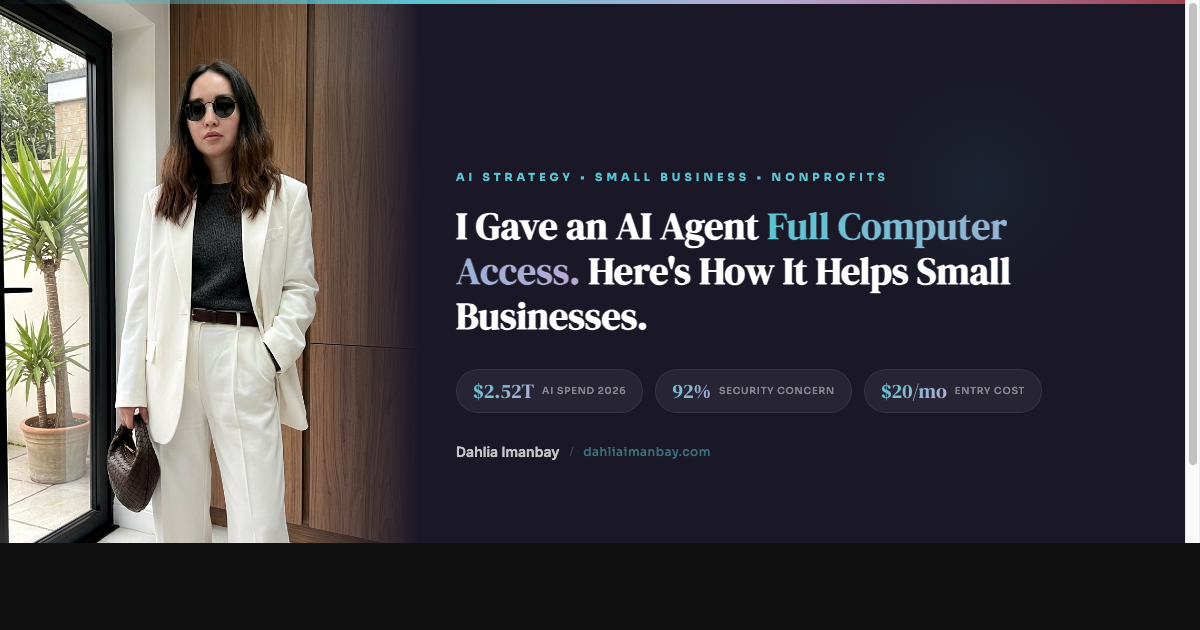
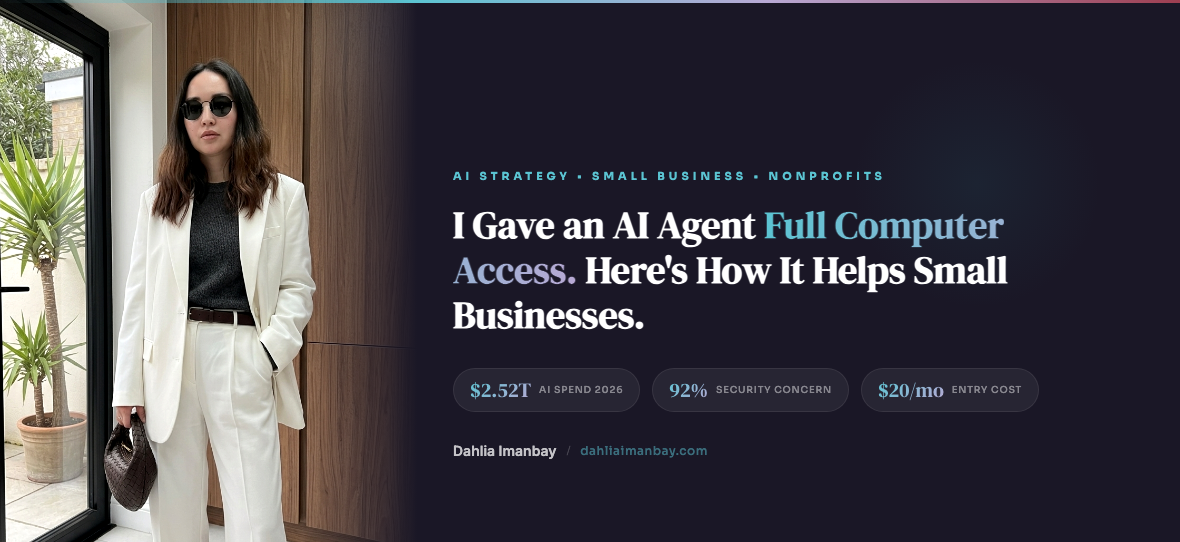
Add Google Analytics (GA4) tracking to all pages
Measurement ID: G-NXLWM0TJK8 added to 5 HTML pages for
monthly traffic and engagement reporting.

diff --git a/index.html b/index.html
@@ -1,6 +1,14 @@
 <!DOCTYPE html>
 <html lang="en">
 <head>
+    <!-- Google Analytics (GA4) -->
+    <script async src="https://www.googletagmanager.com/gtag/js?id=G-NXLWM0TJK8"></script>
+    <script>
+      window.dataLayer = window.dataLayer || [];
+      function gtag(){dataLayer.push(arguments);}
+      gtag('js', new Date());
+      gtag('config', 'G-NXLWM0TJK8');
+    </script>
     <meta charset="UTF-8">
     <meta name="viewport" content="width=device-width, initial-scale=1.0">
     <title>Dahlia Imanbay | AI Strategist, Fractional CMO & Full-Stack Developer</title>

diff --git a/blog/ai-auto-mode-small-business-nonprofits.html b/blog/ai-auto-mode-small-business-nonprofits.html
@@ -1,6 +1,14 @@
 <!DOCTYPE html>
 <html lang="en">
 <head>
+    <!-- Google Analytics (GA4) -->
+    <script async src="https://www.googletagmanager.com/gtag/js?id=G-NXLWM0TJK8"></script>
+    <script>
+      window.dataLayer = window.dataLayer || [];
+      function gtag(){dataLayer.push(arguments);}
+      gtag('js', new Date());
+      gtag('config', 'G-NXLWM0TJK8');
+    </script>
     <meta charset="UTF-8">
     <meta name="viewport" content="width=device-width, initial-scale=1.0">
     <title>AI Auto Mode for Small Businesses and Nonprofits | Dahlia Imanbay</title>

diff --git a/blog/why-claudes-surge-doesnt-surprise-me.html b/blog/why-claudes-surge-doesnt-surprise-me.html
@@ -1,6 +1,14 @@
 <!DOCTYPE html>
 <html lang="en">
 <head>
+    <!-- Google Analytics (GA4) -->
+    <script async src="https://www.googletagmanager.com/gtag/js?id=G-NXLWM0TJK8"></script>
+    <script>
+      window.dataLayer = window.dataLayer || [];
+      function gtag(){dataLayer.push(arguments);}
+      gtag('js', new Date());
+      gtag('config', 'G-NXLWM0TJK8');
+    </script>
     <meta charset="UTF-8">
     <meta name="viewport" content="width=device-width, initial-scale=1.0">
     <title>Why Claude's February Surge Doesn't Surprise Me | Dahlia Imanbay</title>

diff --git a/blog/i-built-an-ai-website-agent.html b/blog/i-built-an-ai-website-agent.html
@@ -1,6 +1,14 @@
 <!DOCTYPE html>
 <html lang="en">
 <head>
+    <!-- Google Analytics (GA4) -->
+    <script async src="https://www.googletagmanager.com/gtag/js?id=G-NXLWM0TJK8"></script>
+    <script>
+      window.dataLayer = window.dataLayer || [];
+      function gtag(){dataLayer.push(arguments);}
+      gtag('js', new Date());
+      gtag('config', 'G-NXLWM0TJK8');
+    </script>
     <meta charset="UTF-8">
     <meta name="viewport" content="width=device-width, initial-scale=1.0">
     <title>I Replaced My Contact Form With an AI Agent | Dahlia Imanbay</title>

diff --git a/demystifying-ai-enhancing-small-business-growth-with-innovation/index.html b/demystifying-ai-enhancing-small-business-growth-with-innovation/index.html
@@ -1,6 +1,14 @@
 <!DOCTYPE html>
 <html lang="en">
 <head>
+    <!-- Google Analytics (GA4) -->
+    <script async src="https://www.googletagmanager.com/gtag/js?id=G-NXLWM0TJK8"></script>
+    <script>
+      window.dataLayer = window.dataLayer || [];
+      function gtag(){dataLayer.push(arguments);}
+      gtag('js', new Date());
+      gtag('config', 'G-NXLWM0TJK8');
+    </script>
     <meta charset="UTF-8">
     <meta name="robots" content="noindex, follow">
     <title>Page Moved | Dahlia Imanbay</title>
